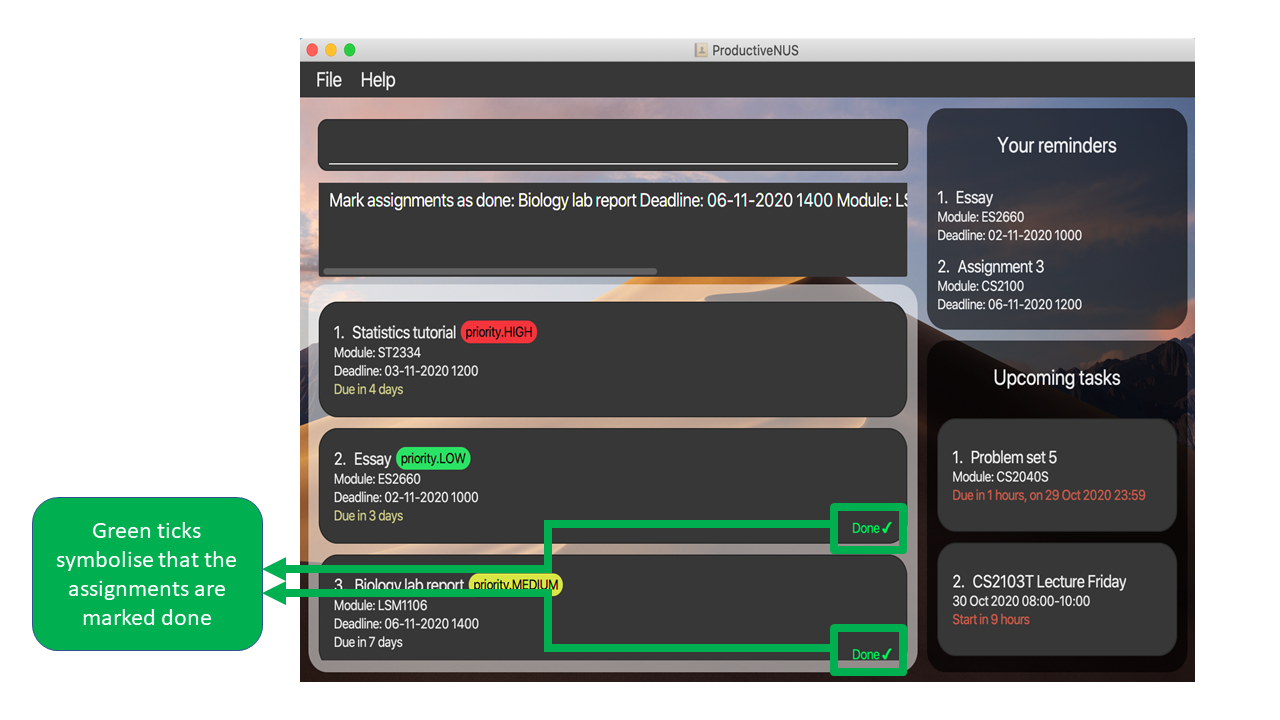
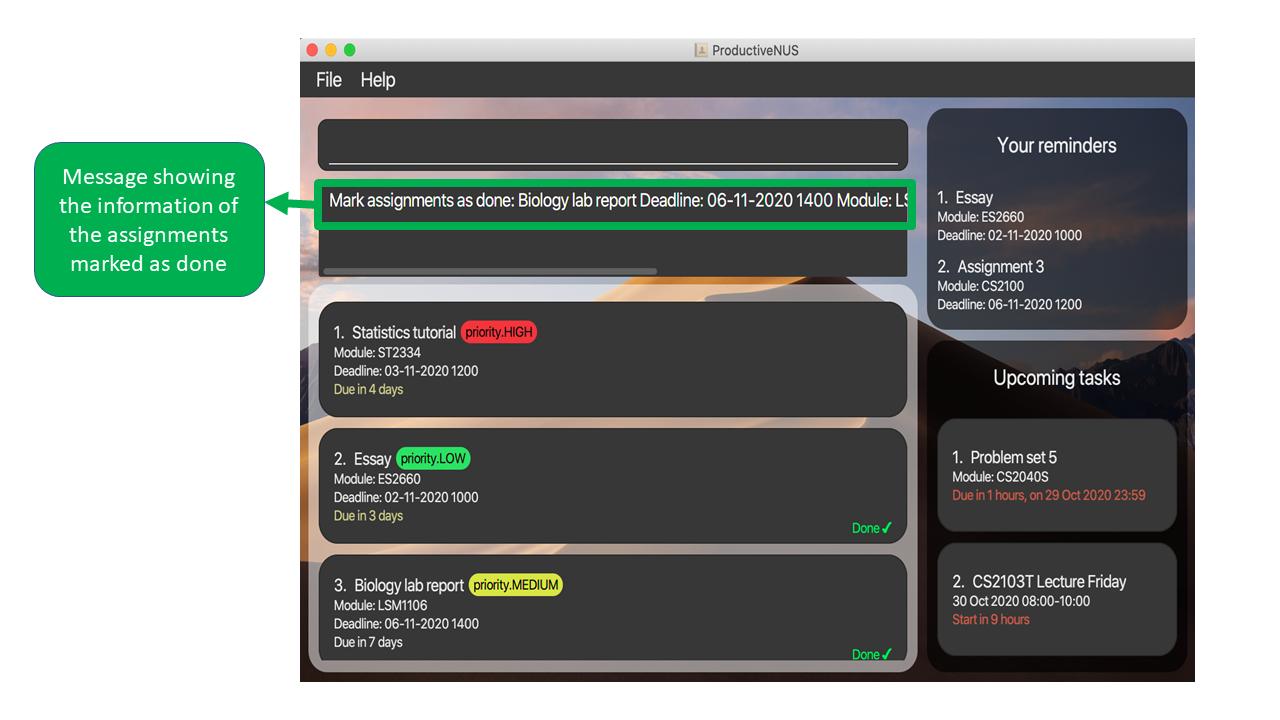
Update UG

Changed region(s): [[0.0, 0.6722, 0.7188, 0.9472], [0.0, 0.1833, 0.7188, 0.4278]]

diff --git a/docs/UserGuide.md b/docs/UserGuide.md
@@ -120,7 +120,7 @@ simply enter `add n/Lab report d/23-04-2020 1230 mod/CS2100`. All the informatio
 <div markdown="block" class="alert alert-primary">
 
  **:clipboard: Pointers to note:**<br>
-* `DEADLINE_OF_ASSIGNMENT` must be in the format dd-MM-yyyy and time in the format HHmm (24-hour).
+* `DEADLINE_OF_ASSIGNMENT` must be in the format dd-MM-yyyy and time in the format HHmm (24-hour clock system).
 </div>
 
 <div markdown="span" class="alert alert-success">
@@ -130,7 +130,7 @@ If the lab report assignment is of **high priority**, you can enter `add n/Lab r
 
 More examples:
 * `add n/Lab report d/23-04-2020 1230 mod/CS2100 remind`
-* `add n/Lab report d/30-04-2020 1230 mod/CS2100`
+* `add n/Lab report d/23-04-2020 1230 mod/CS2100 p/HIGH remind`
 
 ### Deleting assignments : `delete`
 
@@ -450,18 +450,18 @@ the command line based on the indexes labelled in the figure.
    
 2) The two assignments will be marked as done and each assignment will have a green tick displayed as labelled in the figure. 
 
-   ![UserGuideDoneCommandTicksAdded](images/UserGuideDoneCommandTicksAdded.PNG)
+   ![UserGuideDoneCommandTicksAdded](images/UserGuideDoneCommandSuccess.PNG)
    *Figure 23: Added ticks labelled*
 
 3) A message that includes the information of the assignments marked as done will be displayed in the Command Box.
 
-   ![UserGuideDoneCommandSuccess](images/UserGuideDoneCommandSuccess.PNG)
+   ![UserGuideDoneCommandSuccess](images/UserGuideDoneCommandTicks.PNG)
    *Figure 24: Message shown in Command Box labelled*
    
 <div markdown="block" class="alert alert-primary">
  **:clipboard: Pointers to note:**<br>
 * At least one index must be present. For example, `done` without any index is invalid.
-* The indexes **must be found in your assignment list**
+* The indexes **must be found in your assignment list**.
 * The indexes **must not be duplicated**. For example, `done 4 4` is invalid.
 </div>
 
@@ -473,7 +473,7 @@ Format: `undone INDEX`
 You can unmark assignments that you have previously marked as done by specifying the assignment `INDEX` as shown in your
  list.
 
-You can unmark `one` done assignment at a time. Here is an example with steps to follow:
+You can unmark `one` done assignment at a time. Here is an example with steps for you to follow:
 
 1) If you have **accidentally** marked the assignment with the name "Essay" as done,
 you can simply enter `undone 2` into the command line based on the index labelled in the figure.
@@ -493,9 +493,9 @@ you can simply enter `undone 2` into the command line based on the index labelle
    
 <div markdown="block" class="alert alert-primary">
  **:clipboard: Pointers to note:**<br>
-* Assignments are marked as not done **by default**
+* Assignments are marked as **not done by default**.
 * The index must be present. For example, `undone` without any index is invalid.
-* The index **must be found in your assignment list**
+* The index **must be found in your assignment list**.
 </div>
 
 ### Scheduling assignments: `schedule`
@@ -676,16 +676,16 @@ ProductiveNUS data are saved in the hard disk automatically after any command th
 
 ## FAQ
 
-**Q**: How do I transfer my data to another Computer?<br>
-**A**: 
+**Q: How do I transfer my data to another Computer?**<br>
+**A:** 
 1. Install the app in your other computer and start the app.
 2. Notice that a data file named `addressbook.json` is created under the `/data` folder.
 3. Close the app in your other computer.
 4. Overwrite the newly created data file with the data file from your previous computer.
 5. All your existing data has been successfully transferred!
 
-**Q**: I am not free during the time that my assignment has been scheduled. How do I reschedule?<br>
-**A**:
+**Q: I am not free during the time that my assignment has been scheduled. How do I reschedule?**<br>
+**A:**
 You can reschedule by using the schedule command on that assignment again.<br>
 
 1. Type the schedule command into the Command Box with the index of the assignment that you want to reschedule. You can refer to the diagram below.<br>
@@ -704,7 +704,7 @@ You can paste the command into the command box after step 2 and repeat step 1-2 
    *Figure 39: New suggested time for assignment labelled*
 <br>
 
-**Q**: I double-clicked the productivenus.jar file but the app is not starting. What should I do?<br>
+**Q: I double-clicked the productivenus.jar file but the app is not starting. What should I do?**<br>
 **A**: This is most likely caused by the *Security and Privacy Settings* of your operating system. You can either
 modify your *Security and Privacy Settings* (depends on your operating system) to accept
 anonymous files or run ProductiveNUS with the `Command Prompt`.
